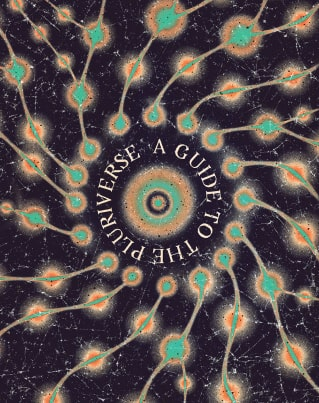
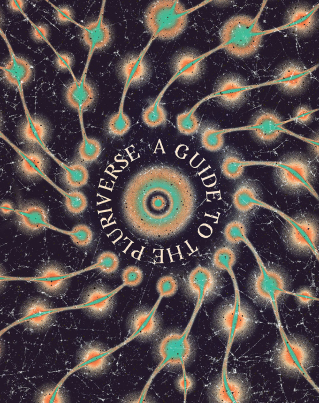
added 2x res images

diff --git a/index.html b/index.html
@@ -72,8 +72,16 @@
 
 			<a href="https://online.fliphtml5.com/kpnio/fszd/">
 				<picture>
-					<source media="(max-width: 80rem)" srcset="./assets/front-cover-320.jpg" width='320' height='403'/>
-					<source media="(min-width: 80.1rem)" srcset="./assets/front-cover-426.jpg" width='426' height='538'/>
+					<source 
+						media="(max-width: 80rem)" 
+						srcset="./assets/front-cover-320.jpg 1x,
+						./assets/front-cover-320-2x.jpg 2x" 
+						width='320' height='403'/>
+					<source 
+					media="(min-width: 80.1rem)" 
+					srcset="./assets/front-cover-426.jpg 1x,
+					./assets/front-cover-426-2x.jpg 2x," 
+					width='426' height='538'/>
 					<img class="logo" src='./assets/mobile-cover.jpg' width='426' height='538' alt="a guide to the pluriverse" />
 				</picture>
 			</a>
